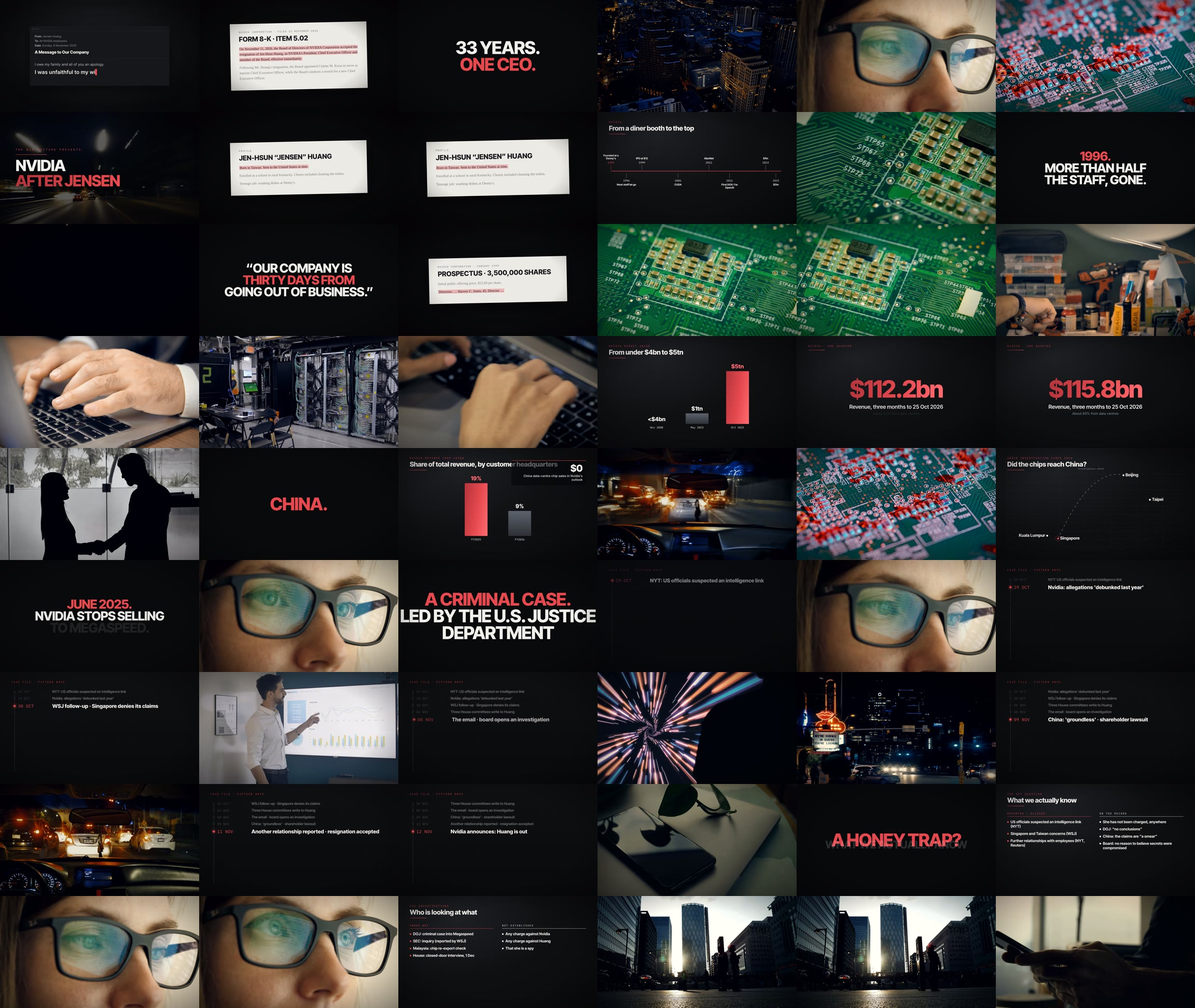
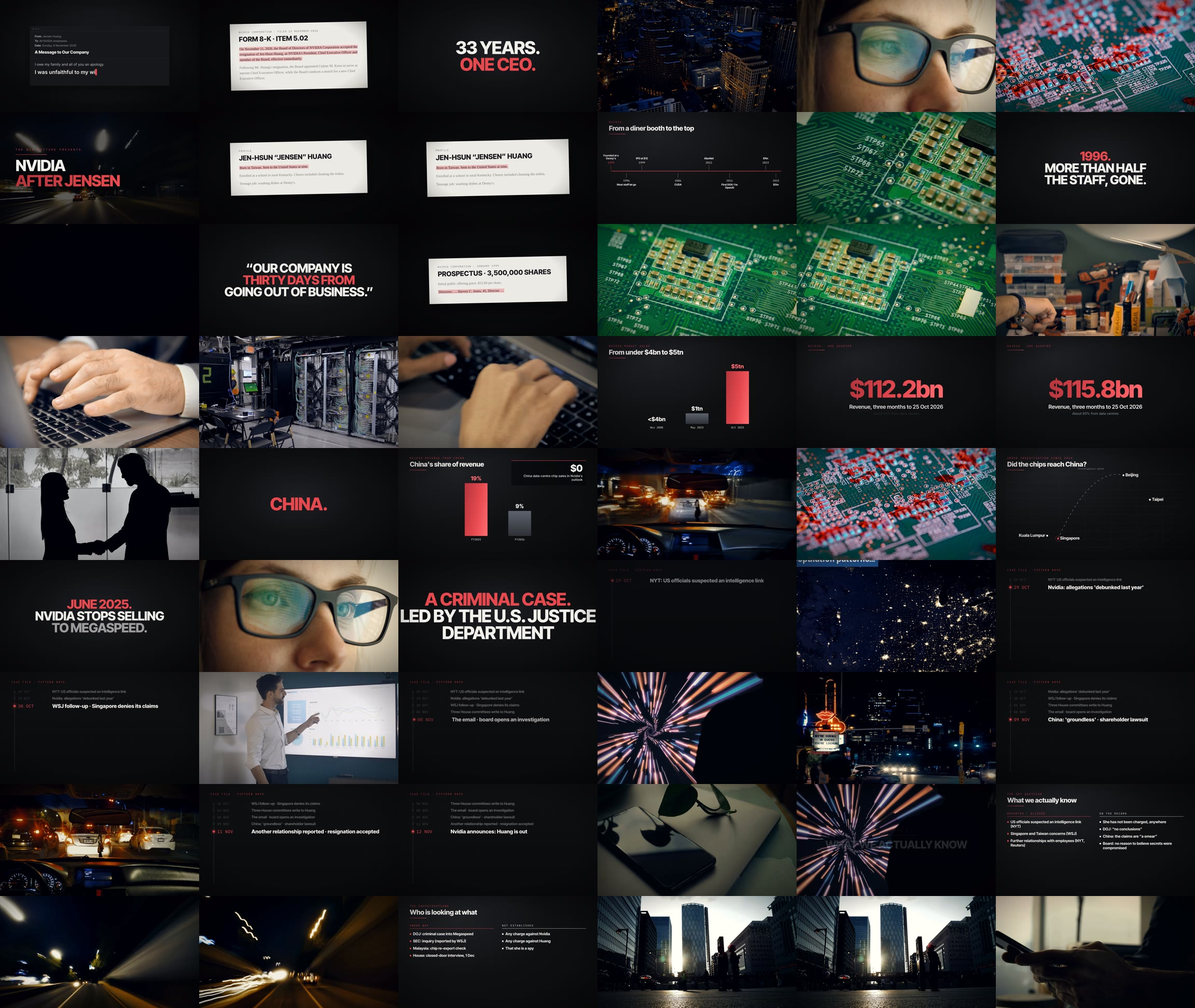
EP02: final review fixes (NASA caption shots, thumbnail image), production report
Claude-Session: https://claude.ai/code/session_019mG3cgY4GAFG5BTQaieEVv

diff --git a/THE_BIG_PICTURE/EP02_NVIDIA/03_STORYBOARD/build_storyboard.py b/THE_BIG_PICTURE/EP02_NVIDIA/03_STORYBOARD/build_storyboard.py
@@ -225,7 +225,7 @@ scene("S06", "CH5", "Fifteen Days", [
     V("L515", "Days later, Reuters reported a relationship with yet another Nvidia employee. Again, Nvidia declined to comment.", pause=0.8),
 ], [
     G("CaseTimeline", case(0), w=1),
-    F("MOOD-113", "Earth at night from orbit", at="L502", offset=3.0, w=1, **{"in": 40}),
+    F("E2-BIZ-102", "Night drive through city traffic", at="L502", offset=3.0, w=1, **{"in": 1}),
     G("CaseTimeline", case(1), at="L503", w=1),
     F("BIZ-043", "Financial district, silhouettes", w=0.8, **{"in": 14}),
     G("CaseTimeline", case(2), at="L504", w=1),
@@ -335,7 +335,7 @@ scene("S10", "CLOSE", "Close", [
     V("L903", "Now that company has to prove it can survive without him.", pause=1.6),
 ], [
     F("E2-BIZ-092", "City streets at night", w=1),
-    F("MOOD-113", "Earth at night from orbit", at="L902", w=1, motion="push", letterbox=True, **{"in": 24}),
+    F("MOOD-113", "Earth at night from orbit", at="L902", w=1, motion="push", letterbox=True, **{"in": 27}),
     F("E2-MOOD-004", "Digital clock at midnight", at="L903", w=1, letterbox=True),
 ], sfx=[X("SFX2_BRASS", "L903", -14, offset=2.0)], lead_in=0.6, tail=1.0)
 
@@ -357,7 +357,7 @@ meta = {
     # music drops to silence just before key lines, so they land harder
     "music_cuts": [{"at": "L008", "offset": -0.8, "dur": 2.6}, {"at": "L111", "offset": -0.6, "dur": 2.2}, {"at": "L512", "offset": 2.0, "dur": 4.5},
                    {"at": "L514", "offset": -0.4, "dur": 4.5}, {"at": "L601", "offset": -0.5, "dur": 2.0}, {"at": "L805", "offset": -0.3, "dur": 3.0}],
-    "thumbnail": {"left": "DC-010@70", "right": "E2-MOOD-003@4"},
+    "thumbnail": {"left": "DC-010@70", "right": "E2-MOOD-004@3"},
     "thumb_variants": [4, 5, 6],
     "short_hooks": {"S00": "How Jensen Huang lost|Nvidia in *4 days*", "S02": "Nvidia was *30 days*|from going bust", "S03": "The bet Wall Street|*hated*",
                     "S04": "Nvidia's profit in|*one quarter*", "S05": "The Singapore company|at the *centre* of it all", "S06": "*15 days* that ended|Jensen Huang's reign",

diff --git a/THE_BIG_PICTURE/EP02_NVIDIA/11_FINAL_DELIVERY/PRODUCTION_REPORT.md b/THE_BIG_PICTURE/EP02_NVIDIA/11_FINAL_DELIVERY/PRODUCTION_REPORT.md
@@ -1,0 +1,54 @@
+# THE BIG PICTURE · EP02 — Nvidia After Jensen
+## Production report
+
+**Format:** 1920×1080 · 25 fps · H.264 + AAC 320 kbps · ~11:49 · −14 LUFS / about −1.2 dBTP
+**Narrator:** Kokoro "Michael" (your pick) · **Palette:** A, graphite + signal red (your pick) · **No sources on screen** (your call; all sources are in the YouTube description)
+
+### Where things are
+| File | What |
+|---|---|
+| `master_parts/` + `JOIN_ON_WINDOWS.bat` | Full-quality master split into parts (GitHub caps files at 100 MB). Double-click to rebuild the MP4. |
+| `THE_BIG_PICTURE_EP02_preview_720p.mp4` | Review copy |
+| `../10_THUMBNAIL/thumbnail_concept_{1,2,3}.png` | WHAT NOW? / NVIDIA AFTER JENSEN · 33 YEARS. ONE CEO. / GONE IN 4 DAYS · THE NVIDIA SCANDAL / WHAT WE KNOW |
+| `../10_THUMBNAIL/youtube_package.md` | Titles, description with chapters and full source list, credits, tags, pinned comment, upload settings |
+| `../08_SUBTITLES/*.en.srt` | 151 caption cues |
+| `../02_SCRIPT/script_v1_for_approval.md` | The script you approved |
+| `../03_STORYBOARD/` | `build_storyboard.py` (source of truth), `storyboard.json`, `storyboard.md`, `shot_list_resolved.csv` |
+| `../01_RESEARCH/` | Three desk files with every claim, source, verification status, a SAFE TO SAY list and a DO NOT SAY list |
+| `../04_FOOTAGE/asset_manifest.csv`, `../06_AUDIO/audio_manifest.csv` | Licence of every clip, track and effect |
+
+### How the scandal is handled (legal guardrails)
+- Only **on-record statements** (Huang's email, the 8-K, board statements, officials' quotes) are stated as fact.
+- Reporting is **attributed in the narration** ("The New York Times reports…", "Reuters reported…").
+- The woman and the two Nvidia employees are **never named**.
+- "Spy" only appears as *suspected* or *alleged*, and always alongside:
+  - no charges anywhere
+  - China's denial
+  - the Justice Department's "no conclusions"
+  - Trump's "nobody's proven"
+- The Treasury Secretary's remark is quoted **as the question he asked**.
+- The 1 December session is described as a **voluntary, closed-door interview**.
+- The share-price fall is shown with the **market-wide sell-off** labelled.
+
+### Quality control
+- **Automated checks:** format, duration and loudness pass, with no placeholder shots. One "dark segment" flag at 5:35 is a false positive: it is the dark case-file graphic, verified frame by frame.
+- **Fixes from frame-by-frame review across three render passes:**
+  1. Kinetic-text cards opened on half a second of pure black. The word now lands on the cut, over a graphite gradient.
+  2. The chapter 6 title card overlapped "A HONEY TRAP?".
+  3. The "$0" stat box collided with the China chart's title.
+  4. One close-up was used four times; it's now used twice.
+  5. A NASA clip carried a burned-in caption in two places. One shot was replaced; the other was moved to a verified-clean window.
+  6. The thumbnails' abstract light-streak image was replaced with the on-topic midnight clock.
+  7. The first render failed on a full disk. I freed 17 GB of caches and duplicates; nothing delivered was lost (checksum-verified).
+
+### Known limits
+- **No licensed photos of Jensen Huang or Nvidia's HQ.** Wikimedia rate-limited this machine all session. The film carries the story with original graphics and licensed footage. A future pass could add CC-licensed photos (e.g. Commons: "NVIDIA Headquarters.jpg", CC BY-SA 4.0).
+- **Voice.** The narration is a free neural TTS voice. Disclose AI narration on upload.
+- **Live story.** Re-check every scandal fact on release day: Bessent's ~25 Nov deadline, any new Nvidia or board statement, and the 1 Dec interview.
+- **Shorts were postponed at your request.** The vertical-shorts renderer is built and ready:
+  - `pipeline/make_shorts.py`
+  - 9 hooks are already written in the storyboard
+  - word-by-word captions and a 1080×1920 layout
+
+### Re-render
+`TBP_PROJECT=<path>/EP02_NVIDIA python pipeline/render.py --from timeline` (Windows: `pipeline\windows\render_windows.ps1` after setting `TBP_PROJECT`).

diff --git a/THE_BIG_PICTURE/EP02_NVIDIA/09_RENDER/qc_report.md b/THE_BIG_PICTURE/EP02_NVIDIA/09_RENDER/qc_report.md
@@ -5,11 +5,13 @@ File: `THE_BIG_PICTURE_EP02_Nvidia_After_Jensen.mp4`
 - PASS — Video H.264 1920x1080
 - PASS — Frame rate 25/1
 - PASS — Audio aac 48000 Hz 2 ch
-- PASS — Duration 11.81 min (timeline 11.81 min), 645 MB
+- PASS — Duration 11.81 min (timeline 11.81 min), 656 MB
 - PASS — No placeholder shots (0 found)
-- FAIL — Unexpected black segments: [(37.88, 38.4), (108.4, 108.92), (189.0, 189.52), (254.04, 255.96), (304.0, 304.6)]
-- INFO — static stretches ≥4 s (graphics holds are expected): 28 at 5s, 92s, 110s, 167s, 190s, 213s, 226s, 258s, 291s, 323s, 350s, 363s
+- FAIL — Unexpected black segments: [(334.96, 335.48)]
+- INFO — static stretches ≥4 s (graphics holds are expected): 29 at 5s, 92s, 110s, 131s, 167s, 190s, 213s, 226s, 258s, 291s, 323s, 350s
 - PASS — Integrated loudness -14.0 LUFS (target -14)
 - PASS — True peak -1.2 dBTP (limit -1)
 
 Contact sheet: `contact_sheet.jpg` (one frame every 10 s)
+
+**Reviewer note (final cut):** the single "black segment" flagged at 5:34.96–5:35.48 is a false positive. It is the opening of the dark "Fifteen Days" case-file graphic, with the first timeline entry visible while the chapter title fades in, so it is dark but not empty (checked frame by frame). Accepted.
